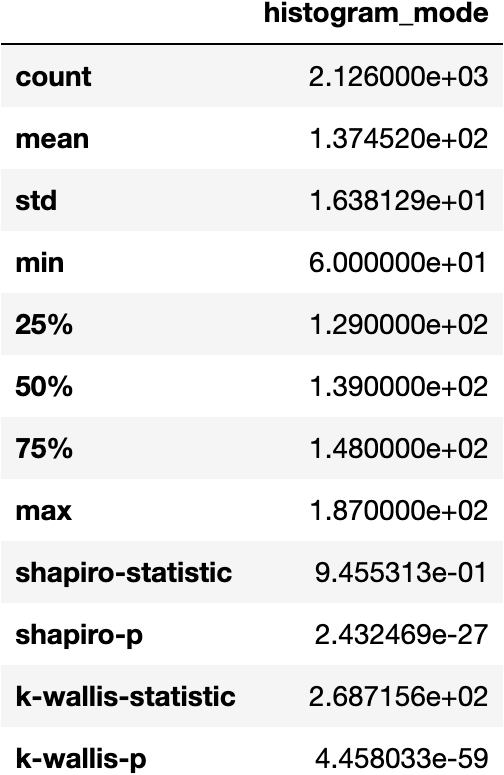
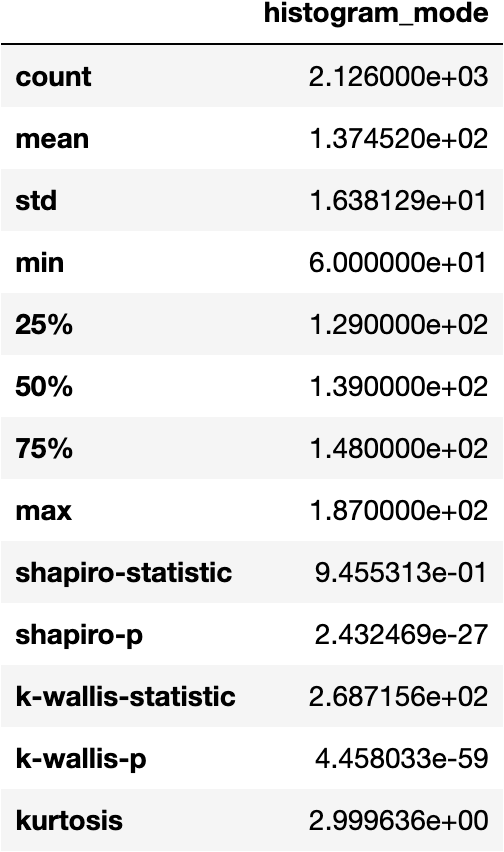
feat: Kurtosis

diff --git a/src/explore.py b/src/explore.py
@@ -10,7 +10,7 @@ from pathlib import Path
 import dataframe_image as dfi
 import pandas as pd
 from pandas import DataFrame
-from scipy.stats import shapiro, f_oneway, kruskal
+from scipy.stats import shapiro, f_oneway, kruskal, kurtosis
 
 from tui import print_heading
 from visualise import FIGURE_DIR, PlotParams, box_plot, plot_hist
@@ -111,6 +111,15 @@ def distribution_subplots() -> None:
                 index=pd.Index(["k-wallis-statistic", "k-wallis-p"]),
             )
             df_describe = pd.concat([df_describe, k_wallis_row])
+
+        # Kurtosis
+        kurt = kurtosis(df[column].values)
+        kurt_row = pd.DataFrame(
+            [kurt],
+            columns=[column],
+            index=pd.Index(["kurtosis"]),
+        )
+        df_describe = pd.concat([df_describe, kurt_row])
 
         # Saves statistical data to csv
         save_csv(df_describe, filename=column.replace("_", "-").replace(" ", "-"))
